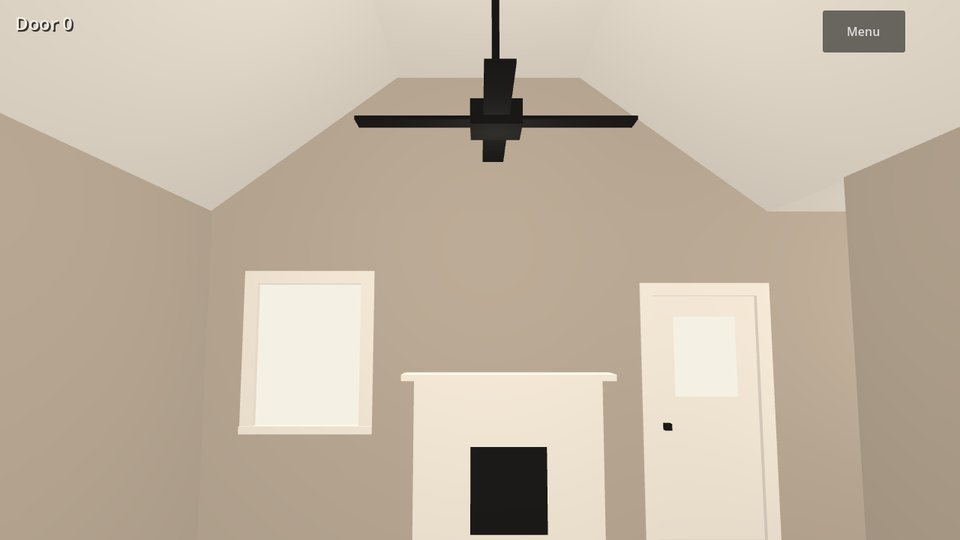
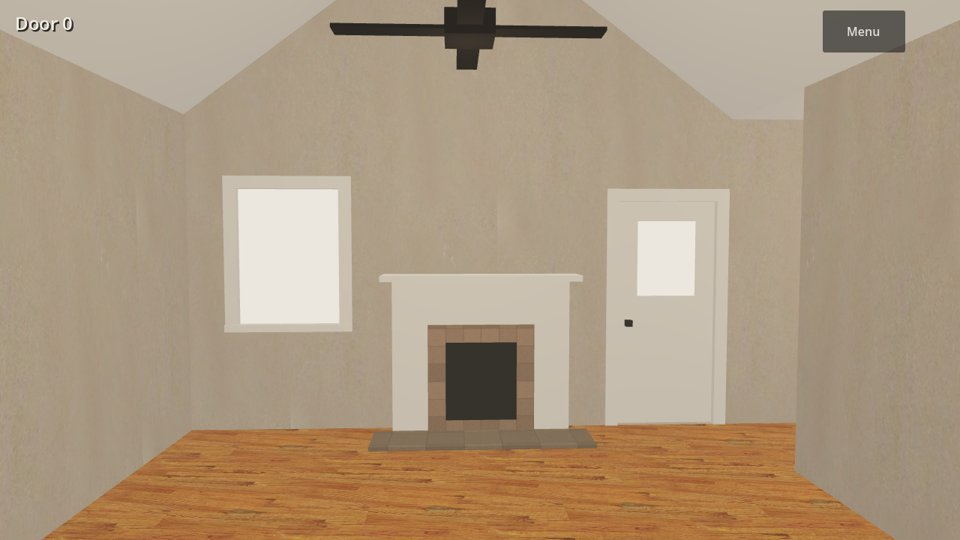
Game Shelf: Split Level 0.2.0
Claude-Session: https://claude.ai/code/session_0117TTYBJV5ZXPkFqiZZGkQv

diff --git a/index.html b/index.html
@@ -70,11 +70,11 @@ h2 a[href="lo-fi-league/"]{font-size:.9em;word-spacing:.35em}h2 a[href="pixel-ho
 
 
 <article class="card" data-repo="split-level">
-<a class="shot" href="split-level/"><img src="images/split-level.jpg?v=0.1.0" alt="Split Level: the den seen from the top of the stairs, with its vaulted ceiling, fan, fireplace and back door" width="960" height="540" loading="lazy"></a>
+<a class="shot" href="split-level/"><img src="images/split-level.jpg?v=0.2.0" alt="Split Level: the den seen from the top of the stairs, with its oak floor, vaulted ceiling, fan, fireplace and back door" width="960" height="540" loading="lazy"></a>
 <div class="body">
 <div class="top"><h2><a href="split-level/">Split Level</a></h2><span class="tag">Your own house, one door at a time.</span></div>
-<p class="desc">Walk in the front door of an ordinary house with nobody home. Open any door and a new room waits behind it. Every room is built from the same house, and every room is a little weirder than the last. No end and no way to lose. Five save slots. Plays with touch, a keyboard and mouse or an Xbox controller, held upright or sideways.</p>
-<p class="meta">Browser and Android<span class="ver"> · Version 0.1.0</span> <span class="upd">· Updated <time datetime="2026-11-22T15:10-06:00">Nov 22, 2026, 3:10 PM CT</time></span></p>
+<p class="desc">Walk in the front door of an ordinary house with nobody home. Open any door and a new room waits behind it. Every room is built from the same house, and every room is a little weirder than the last. No end and no way to lose. A black cat waits deeper in. Five save slots. Plays with touch, a keyboard and mouse or an Xbox controller, held upright or sideways.</p>
+<p class="meta">Browser and Android<span class="ver"> · Version 0.2.0</span> <span class="upd">· Updated <time datetime="2026-11-22T17:45-06:00">Nov 22, 2026, 5:45 PM CT</time></span></p>
 <div class="actions"><a class="btn" href="split-level/">Open game page</a></div>
 </div>
 </article>
